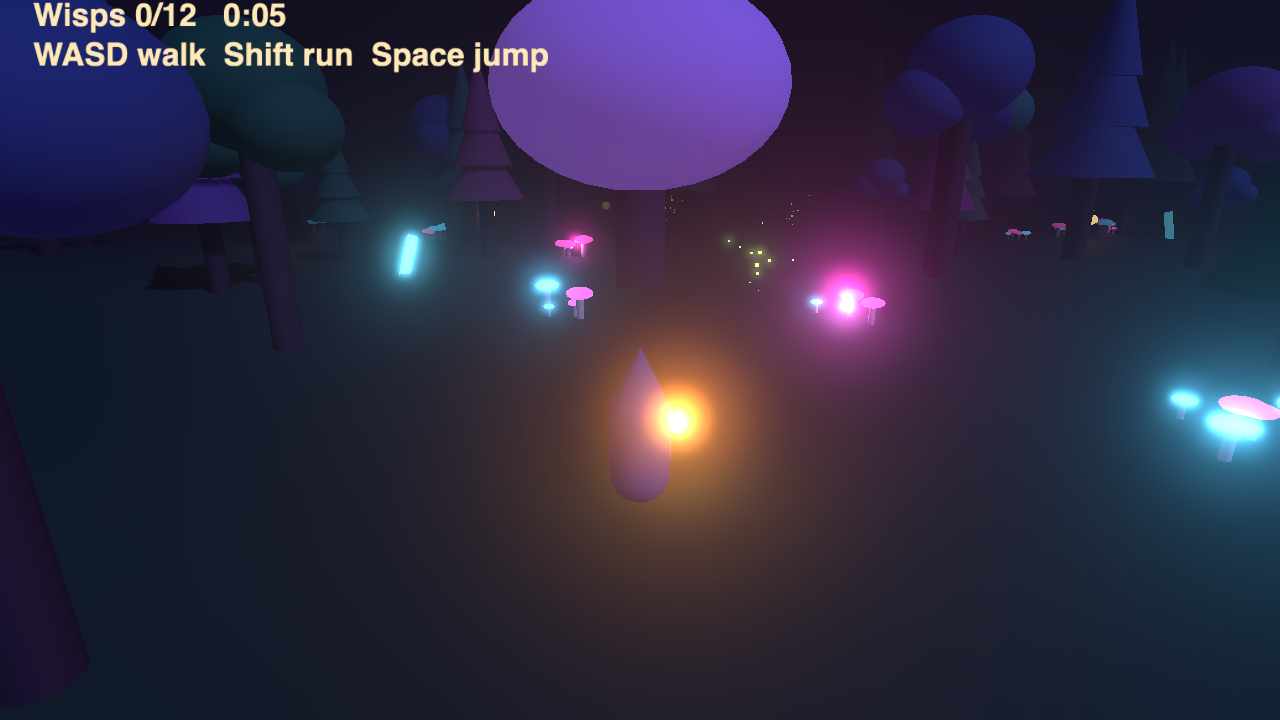
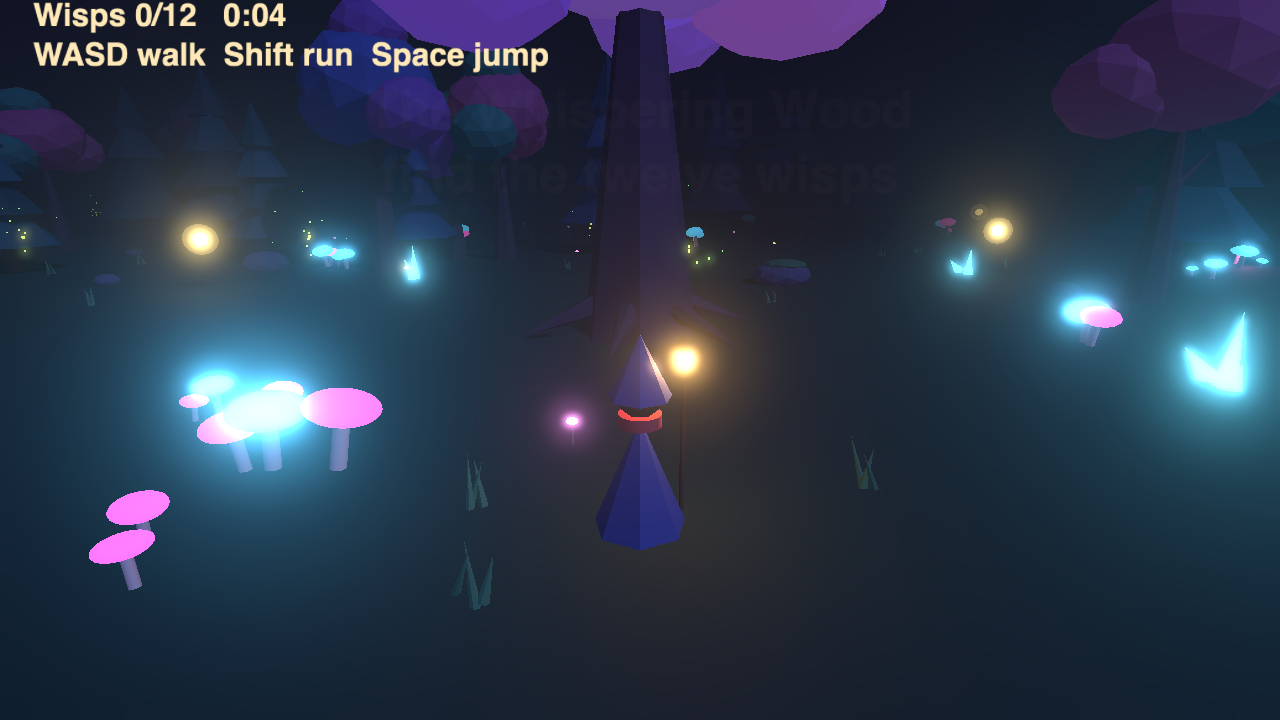
Forest demo: low-poly multi-part models
Every model is now a few parts parented to a root: tapered trunks with
faceted canopies, layered pines, spotted mushrooms, gem clusters, mossy
rocks, grass tufts, flowers, a hooded wanderer with a lantern and a walk
cycle, and a rooted Heartwood. Adds the faceted 'ico' shape and makes 'cone'
low-poly. The camera pulls in when a trunk blocks the view.

diff --git a/packages/render/src/renderer.ts b/packages/render/src/renderer.ts
@@ -138,8 +138,12 @@ const UNIT: Record<string, () => THREE.BufferGeometry> = {
   plane: () => new THREE.PlaneGeometry(1, 1).rotateX(-Math.PI / 2),
   capsule: () => new THREE.CapsuleGeometry(0.5, 1, 8, 16),
   cylinder: () => new THREE.CylinderGeometry(0.5, 0.5, 1, 32),
-  cone: () => new THREE.ConeGeometry(0.5, 1, 24),
+  cone: () => new THREE.ConeGeometry(0.5, 1, 7),
+  ico: () => new THREE.IcosahedronGeometry(0.5, 1),
 };
+
+/** Low-poly shapes drawn with flat faces. */
+const FACETED = new Set(['cone', 'ico']);
 
 const ORIGIN2 = Transform2D.create();
 
@@ -327,7 +331,10 @@ export class Renderer {
         if (n) this.drop(n);
         const obj = m.model
           ? this.model(m.model)
-          : new THREE.Mesh(this.geometry(m.shape), new THREE.MeshStandardMaterial());
+          : new THREE.Mesh(
+              this.geometry(m.shape),
+              new THREE.MeshStandardMaterial({ flatShading: FACETED.has(m.shape) }),
+            );
         obj.castShadow = obj.receiveShadow = true;
         this.scene.add(obj);
         n = { obj, key, stamp: 0 };

diff --git a/packages/render/src/components.ts b/packages/render/src/components.ts
@@ -1,12 +1,13 @@
 import { color, component, mut, system, vec2, vec3 } from '@tessera/core';
 
 /**
- * Primitive 3D shape sized in meters (sphere/capsule/cylinder/cone use size.x as diameter),
+ * Primitive 3D shape sized in meters (sphere/capsule/cylinder/cone/ico use size.x as diameter;
+ * cone and ico are faceted low-poly shapes),
  * or a glTF `model` URL (size then scales the model; color/roughness/metalness are ignored).
  * `emissive` makes it glow in its own color (0 = off; pairs with `Camera3D.bloom`).
  */
 export const Mesh = component('Mesh', () => ({
-  shape: 'box' as 'box' | 'sphere' | 'plane' | 'capsule' | 'cylinder' | 'cone',
+  shape: 'box' as 'box' | 'sphere' | 'plane' | 'capsule' | 'cylinder' | 'cone' | 'ico',
   size: vec3(1, 1, 1),
   color: color(),
   roughness: 0.8,

diff --git a/examples/forest/forest.test.ts b/examples/forest/forest.test.ts
@@ -9,7 +9,7 @@ describe('forest', () => {
   it('walks, and wakes the forest once every wisp is found', async () => {
     const w = await loadExample(import.meta.dirname, 'game.tess');
     runFrames(w, 30);
-    expect(findAll(w, 'Trunk').length).toBe(120);
+    expect(findAll(w, 'Tree').length).toBe(95);
     const hero = w.get(find(w, 'Wanderer'), Transform3D);
     if (!hero) throw new Error('no Wanderer');
     const z = hero.position.z;

diff --git a/docs/scenes.md b/docs/scenes.md
@@ -53,7 +53,7 @@ to the YAML file. Only the fields you write change; the rest keep the component 
 | SpriteAnimation | frames [0], fps 10, loop true |
 | Tilemap | tiles [] (rows of characters, top first; Transform2D position = top-left corner), chars '#' (i-th char draws frame i of image, or a color square), passable '' (chars that don't collide), size 1 (tile meters), image '', columns 1, rows 1, color white, layer 0, friction 0.5. Solid tiles become a few static boxes |
 | Camera2D | height 10 (visible meters) |
-| Mesh | shape box/sphere/plane/capsule/cylinder/cone, size [1,1,1], color white, roughness 0.8, metalness 0, emissive 0 (glow in its color), model '' (glTF path) |
+| Mesh | shape box/sphere/plane/capsule/cylinder/cone/ico (cone, ico: faceted low-poly), size [1,1,1], color white, roughness 0.8, metalness 0, emissive 0 (glow in its color), model '' (glTF path) |
 | Animator | clip '' (name in Mesh.model's glTF; '' = first clip), speed 1, loop true, time 0 (advanced by the simulation) |
 | Camera3D | fov 60, near 0.1, far 1000, background '#1b1d26', fog 0 (meters to fade into background; 0 = off), bloom 0 (glow of bright/emissive colors; 0 = off) |
 | Light | kind directional/point/ambient, color white, intensity 1 (directional shines along -Z) |

diff --git a/README.md b/README.md
@@ -6,8 +6,8 @@ the language spec in [docs/tess-spec.md](docs/tess-spec.md) and the scene format
 [docs/scenes.md](docs/scenes.md). Agent instructions: [AGENTS.md](AGENTS.md).
 
 **[Play the demo: The Whispering Wood](https://beaumont-maxence.github.io/tessera/)**: walk a
-night forest with a lantern and gather twelve wisps (WASD, Shift, Space). About 250 lines of
-YAML and Tess in [examples/forest](examples/forest): seeded procedural forest, glowing
+night forest with a lantern and gather twelve wisps (WASD, Shift, Space). About 300 lines of
+YAML and Tess in [examples/forest](examples/forest): seeded procedural forest of low-poly models built from primitives, glowing
 materials with bloom and fog, particles, point lights, hierarchy, physics, HUD and a saved best time.
 
 [![The Whispering Wood](docs/forest.png)](https://beaumont-maxence.github.io/tessera/)

diff --git a/PLAN.md b/PLAN.md
@@ -170,5 +170,5 @@ L'exécution réelle (cases ci-dessus) attend une clé `ANTHROPIC_API_KEY`.
 
 ## Phase 21 : Démo technique
 - [x] `examples/forest` (forêt procédurale de nuit, lucioles, champignons lumineux, quête des feux follets)
-- [x] Rendu : `Mesh.emissive`, forme `cone`, `Camera3D.background`, `fog`, `bloom`
+- [x] Rendu : `Mesh.emissive`, formes low-poly `cone` et `ico`, `Camera3D.background`, `fog`, `bloom`
 - [x] Déployée sur GitHub Pages (`.github/workflows/pages.yml`), lien dans le README
